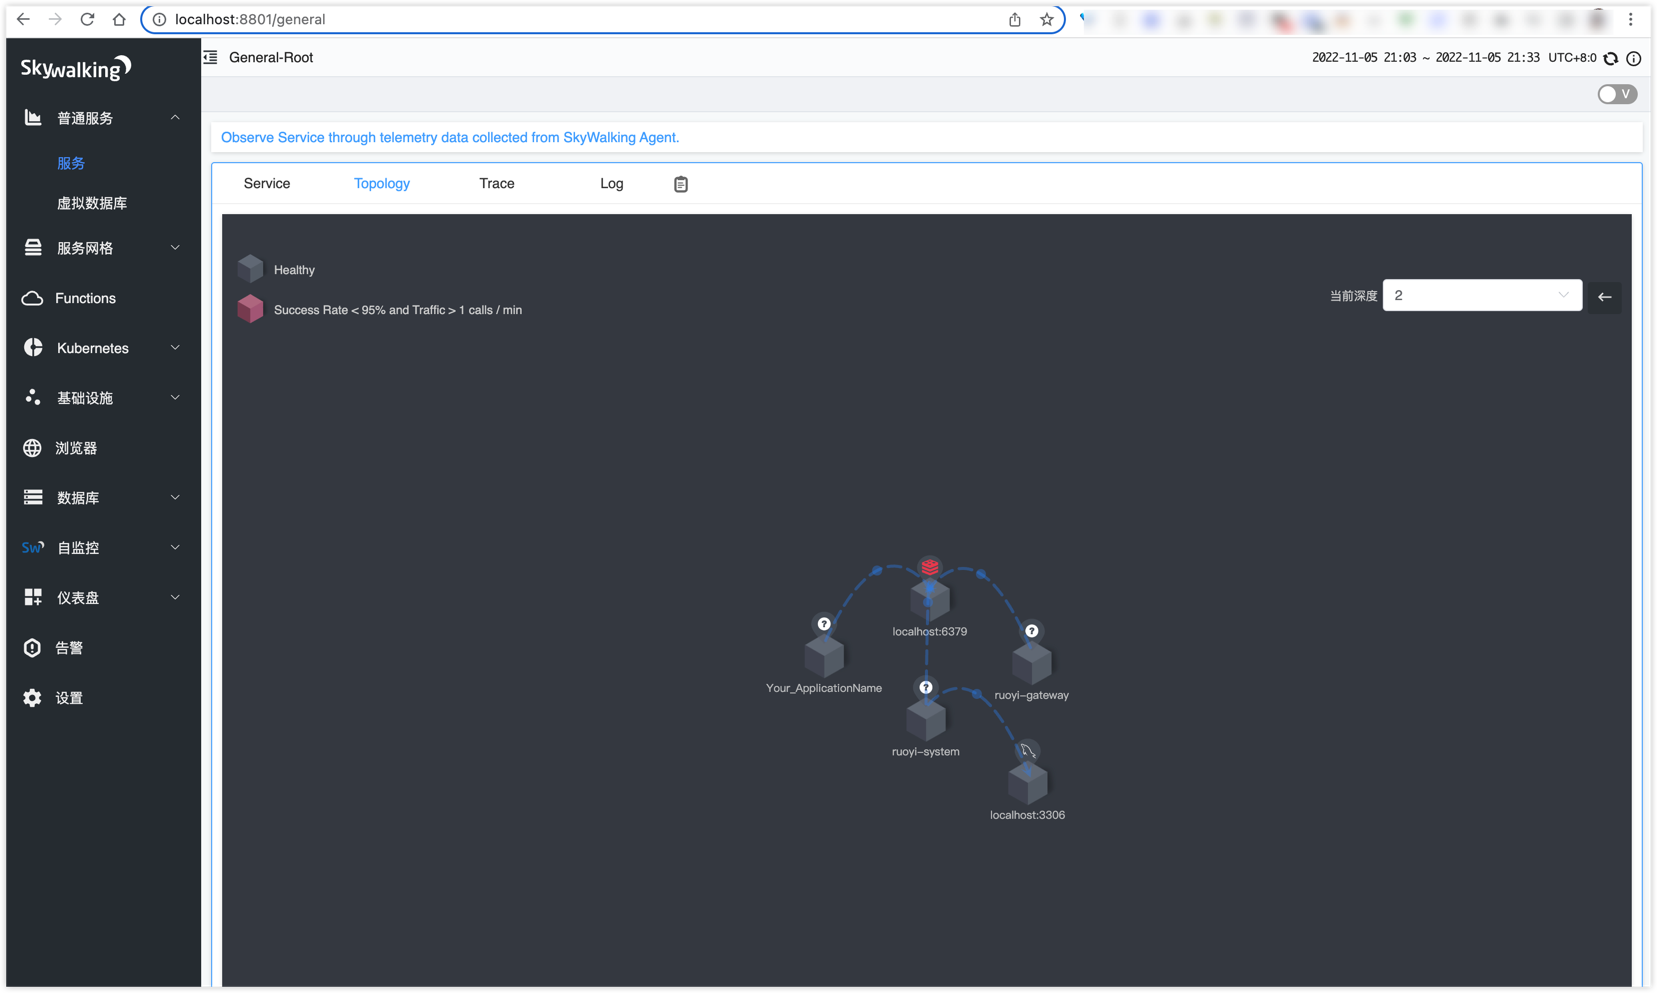
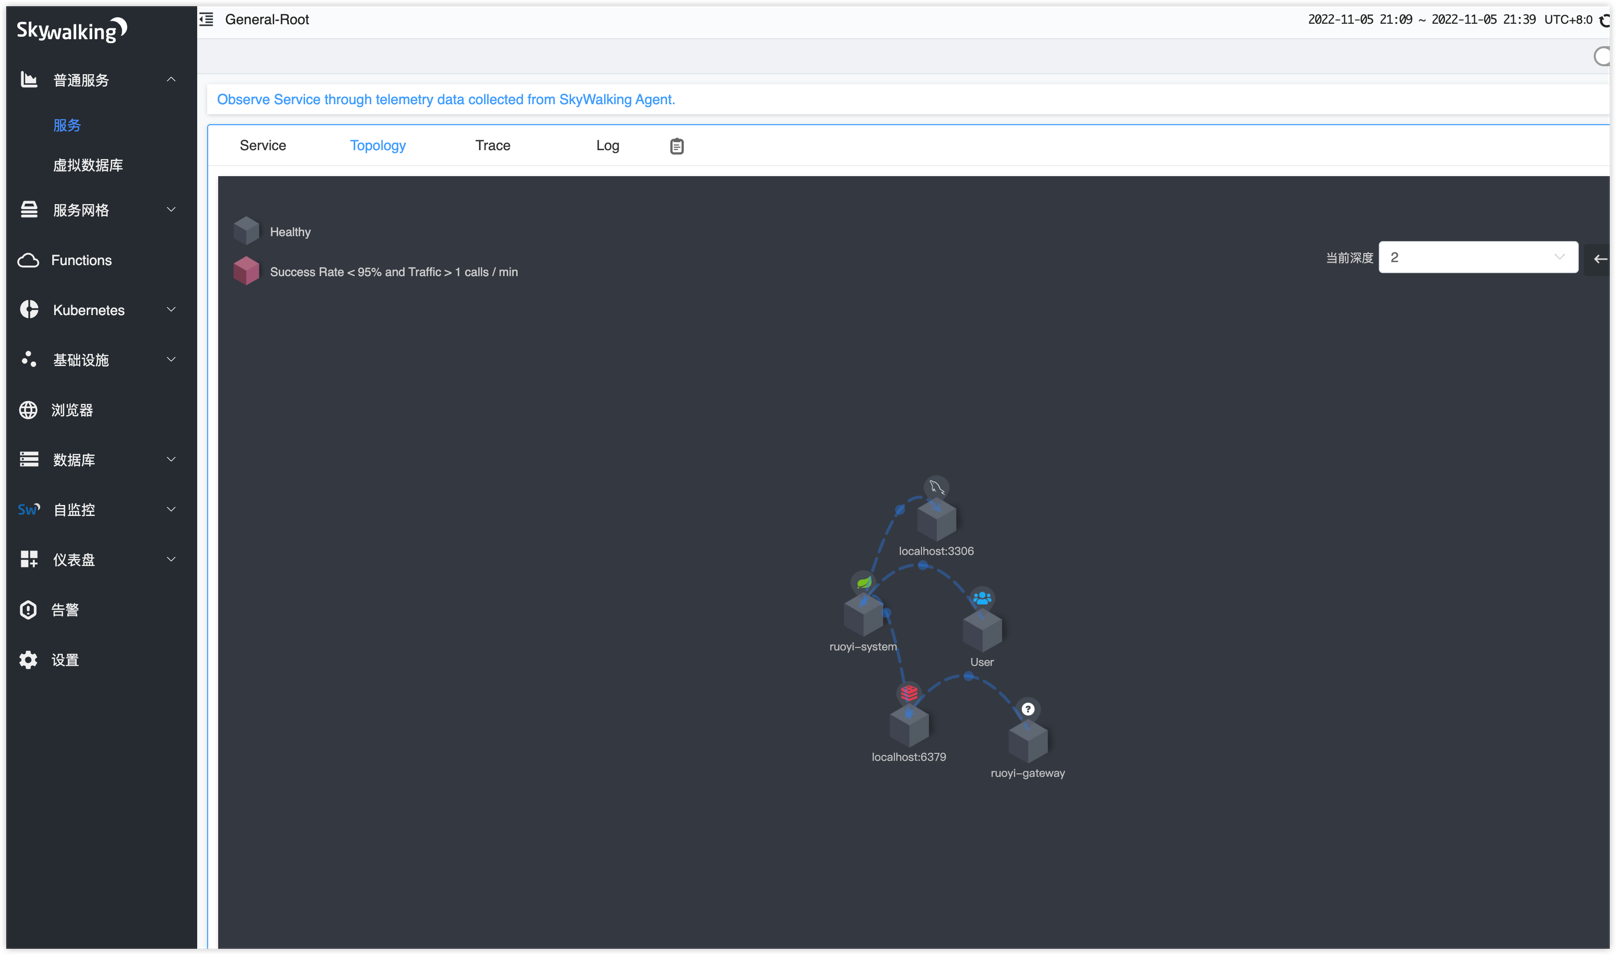
[add] 在RuoYi Cloud中集成和使用SkyWalking进行链路跟踪，更换拓扑图，实际调用和展示有延迟

diff --git a/Spring Cloud/微服务笔记.md b/Spring Cloud/微服务笔记.md
@@ -171,6 +171,7 @@ SkyWalking Web Application started successfully!
 
 查看效果
 ![img_9.png](img_9.png)
+![img_10.png](img_10.png)
 
 ## 参考
 - https://skywalking.apache.org/zh/2020-04-19-skywalking-quick-start/#25-skywalking-agent
@@ -195,5 +196,7 @@ SkyWalking Web Application started successfully!
 4、追踪调用链
 
 实操
+
+# 分库分表
 
 
